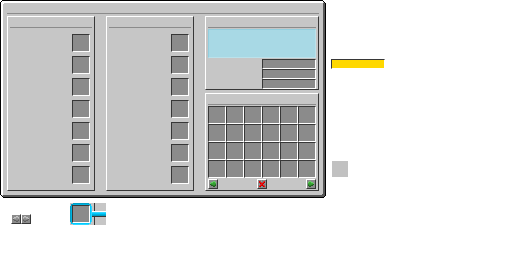
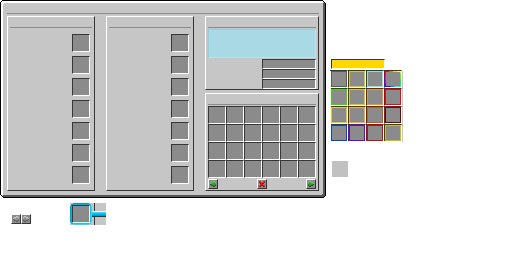
Reward boxes initial code + some new skins

Changed region(s): [[0.625, 0.25, 0.8125, 0.5625]]

diff --git a/src/main/java/com/flansmod/common/teams/RewardBox.java b/src/main/java/com/flansmod/common/teams/RewardBox.java
@@ -1,0 +1,56 @@
+package com.flansmod.common.teams;
+
+import java.util.ArrayList;
+
+import com.flansmod.common.FlansMod;
+import com.flansmod.common.guns.Paintjob;
+import com.flansmod.common.types.EnumPaintjobRarity;
+import com.flansmod.common.types.InfoType;
+import com.flansmod.common.types.PaintableType;
+import com.flansmod.common.types.TypeFile;
+
+public class RewardBox extends InfoType 
+{
+	// -------------------------------------------------------------------------------------------------------------------------------------
+	// To anyone planning to add to this file in future, remember that the Minecraft EULA forbids monetization of any non-cosmetic additions
+	// -------------------------------------------------------------------------------------------------------------------------------------
+	public ArrayList<Paintjob> paintjobs = new ArrayList<Paintjob>();
+	
+	public RewardBox(TypeFile file) 
+	{
+		super(file);
+	}
+
+	@Override
+	protected void read(String[] split, TypeFile file)
+	{
+		super.read(split, file);
+	
+		if (KeyMatches(split, "AddPaintjob"))
+		{
+			PaintableType type = PaintableType.GetPaintableType(split[2].hashCode());
+			if(type == null) 
+			{
+				FlansMod.Assert(false, "Invalid type: " + split[2] + " when reading " + shortName);
+				return;
+			}
+			Paintjob paintjob = type.getPaintjob(split[3]);
+			if(paintjob == null) 
+			{
+				FlansMod.Assert(false, "Invalid paintjob: " + split[3] + " when reading " + shortName);
+				return;
+			}
+			paintjob.rarity = GetRarity(split[1]);
+		}
+	}
+	
+	private EnumPaintjobRarity GetRarity(String split)
+	{
+		if(split.toLowerCase().equals("common")) return EnumPaintjobRarity.COMMON;
+		if(split.toLowerCase().equals("uncommon")) return EnumPaintjobRarity.UNCOMMON;
+		if(split.toLowerCase().equals("rare")) return EnumPaintjobRarity.RARE;
+		if(split.toLowerCase().equals("legendary")) return EnumPaintjobRarity.LEGENDARY;
+		FlansMod.Assert(false, "Unknown rarity entered for reward box");
+		return EnumPaintjobRarity.UNKNOWN;
+	}
+}

diff --git a/src/main/java/com/flansmod/common/types/EnumType.java b/src/main/java/com/flansmod/common/types/EnumType.java
@@ -37,6 +37,7 @@ import com.flansmod.common.teams.BlockArmourBox;
 import com.flansmod.common.teams.ItemTeamArmour;
 import com.flansmod.common.teams.LoadoutPool;
 import com.flansmod.common.teams.PlayerClass;
+import com.flansmod.common.teams.RewardBox;
 import com.flansmod.common.teams.Team;
 import com.flansmod.common.tools.ItemTool;
 import com.flansmod.common.tools.ToolType;
@@ -46,7 +47,7 @@ public enum EnumType
 	part("parts"), bullet("bullets"), attachment("attachments"), grenade("grenades"), gun("guns"), 
 	aa("aaguns"), vehicle("vehicles"), plane("planes"), mechaItem("mechaItems"), mecha("mechas"), 
 	tool("tools"), armour("armorFiles"), armourBox("armorBoxes"), box("boxes"), playerClass("classes"), 
-	team("teams"), itemHolder("itemHolders"), loadout("loadouts");
+	team("teams"), itemHolder("itemHolders"), rewardBox("rewardBoxes"), loadout("loadouts");
 	
 	public String folderName;
 	
@@ -86,6 +87,7 @@ public enum EnumType
 		case box :			return GunBoxType.class;
 		case part :			return PartType.class;
 		case itemHolder:	return ItemHolderType.class;
+		case rewardBox:		return RewardBox.class;
 		case loadout:		return LoadoutPool.class;
 		default : 		return InfoType.class;
 		}
@@ -110,6 +112,7 @@ public enum EnumType
 		if(o instanceof GunBoxType  		|| o instanceof BlockGunBox) 									return box;
 		if(o instanceof PartType  			|| o instanceof ItemPart) 										return part;
 		if(o instanceof ItemHolderType  	|| o instanceof TileEntityItemHolder) 							return itemHolder;
+		if(o instanceof RewardBox)																			return rewardBox;
 		if(o instanceof LoadoutPool)																		return loadout;
 		return null;
 	}

diff --git a/src/main/java/com/flansmod/client/gui/teams/GuiEditLoadout.java b/src/main/java/com/flansmod/client/gui/teams/GuiEditLoadout.java
@@ -22,6 +22,7 @@ import com.flansmod.common.teams.LoadoutPool.LoadoutEntry;
 import com.flansmod.common.teams.LoadoutPool.LoadoutEntryInfoType;
 import com.flansmod.common.teams.LoadoutPool.LoadoutEntryPaintjob;
 import com.flansmod.common.teams.PlayerRankData;
+import com.flansmod.common.types.EnumPaintjobRarity;
 import com.flansmod.common.types.IPaintableItem;
 import com.flansmod.common.types.InfoType;
 import com.flansmod.common.types.PaintableType;
@@ -269,10 +270,33 @@ public class GuiEditLoadout extends GuiTeamsBase
 					else if(entry instanceof LoadoutEntryPaintjob)
 					{
 						Paintjob paintjob = ((LoadoutEntryPaintjob)entry).paintjob;
+						if(paintjob.rarity != EnumPaintjobRarity.UNKNOWN)
+						{
+							mc.renderEngine.bindTexture(texture);
+							int x = 0, y = 71;
+							switch( paintjob.rarity )
+							{
+								case COMMON: x = 331; break;
+								case UNCOMMON: x = 349; break;
+								case RARE: x = 367; break;
+								case LEGENDARY:
+								{
+									x = 385;
+									break;
+								}
+								default: break;							
+							}
+							if(x > 0)
+							{
+								drawModalRectWithCustomSizedTexture(guiOriginX + 209 + col * 18, guiOriginY + 107 + row * 18, x, y, 16, 16, textureX, textureY);
+							}
+						}
+						
+						
 						drawSlotInventory(new ItemStack(paintjob.parent.getItem(), 1, paintjob.ID), guiOriginX + 209 + col * 18, guiOriginY + 107 + row * 18);
 					}
 										
-					if(!entry.available)
+					if(false)//!entry.available)
 					{
 						mc.renderEngine.bindTexture(texture);
 						GlStateManager.pushMatrix();

diff --git a/src/main/java/com/flansmod/common/types/PaintableType.java b/src/main/java/com/flansmod/common/types/PaintableType.java
@@ -1,6 +1,7 @@
 package com.flansmod.common.types;
 
 import java.util.ArrayList;
+import java.util.HashMap;
 
 import com.flansmod.client.FlansModResourceHandler;
 import com.flansmod.common.FlansMod;
@@ -21,11 +22,15 @@ public abstract class PaintableType extends InfoType
 	/** Assigns IDs to paintjobs */
 	private int nextPaintjobID = 1;
 	
+	private static HashMap<Integer, PaintableType> paintableTypes = new HashMap<Integer, PaintableType>();
+	public static PaintableType GetPaintableType(int iHash) { return paintableTypes.get(iHash); }
+	public static PaintableType GetPaintableType(String name) { return paintableTypes.get(name.hashCode()); }
+	
 	public PaintableType(TypeFile file)
 	{
 		super(file);
 	}
-
+	
 	@Override
 	public void postRead(TypeFile file)
 	{
@@ -43,6 +48,8 @@ public abstract class PaintableType extends InfoType
 		
 		// Add all custom paintjobs to dungeon loot. Equal chance for each
 		totalDungeonChance += dungeonChance * (paintjobs.size() - 1);
+		
+		paintableTypes.put(shortName.hashCode(), this);
 	}
 	
 	/** Pack reader */
@@ -77,9 +84,16 @@ public abstract class PaintableType extends InfoType
 	{
 		for(Paintjob paintjob : paintjobs)
 		{
-			if(paintjob.iconName.equals(s))
+			if(paintjob.textureName.equals(s))
 				return paintjob;
+			
+			if(paintjob.iconName.equals(s))
+			{
+				FlansMod.Assert(false, "Not sure this should be the right way to find a paintjob");
+				return paintjob;
+			}
 		}
+		FlansMod.Assert(false, "Could not find paintjob " + s);
 		return defaultPaintjob;
 	}
 	

diff --git a/src/main/java/com/flansmod/client/gui/GuiPaintjobTable.java b/src/main/java/com/flansmod/client/gui/GuiPaintjobTable.java
@@ -228,26 +228,30 @@ public class GuiPaintjobTable extends GuiContainer
 			{
 				GL11.glPushMatrix();
 				GL11.glColor4f(1F, 1F, 1F, 1F);
+				
+				//GlStateManager.loadIdentity();
 
+				// Setup lighting
 		        GlStateManager.disableLighting();
 		        GlStateManager.pushMatrix();
-		        
 		        GlStateManager.rotate(180F, 1.0F, 0.0F, 0.0F);
 		        RenderHelper.enableStandardItemLighting();
 		        GlStateManager.popMatrix();
 		        GlStateManager.enableRescaleNormal();
 		        
+		        //GL11.glTranslatef(10f, 10f, -10f);
+		        //GL11.glScalef(100f, 100f, 100f);
 				GL11.glTranslatef(renderOrigin.x, renderOrigin.y, renderOrigin.z);
 
-				GL11.glRotatef(160, 1F, 0F, 0F);
-				GL11.glRotatef(20, 0F, 1F, 0F);
+				GL11.glRotatef(180, 1F, 0F, 0F);
+				//GL11.glRotatef(20, 0F, 1F, 0F);
 				float scale = paintableType.GetRecommendedScale();
 				GL11.glScalef(-scale, scale, scale);
 				
 				float dYaw = (modelAxes.getYaw() - prevModelAxes.getYaw());
 				while(dYaw > 180.0f) dYaw -= 360.0f;
 				while(dYaw < -180.0f) dYaw += 360.0f;
-		        GlStateManager.rotate(prevModelAxes.getYaw() + dYaw * RenderGun.smoothing, 0.0F, 1.0F, 0.0F);
+		        //GlStateManager.rotate(prevModelAxes.getYaw() + dYaw * RenderGun.smoothing, 0.0F, 1.0F, 0.0F);
 		        
 		        Paintjob paintjob = paintableType.paintjobs.get(tempStack.getItemDamage());
 

diff --git a/src/main/java/com/flansmod/common/guns/Paintjob.java b/src/main/java/com/flansmod/common/guns/Paintjob.java
@@ -1,5 +1,6 @@
 package com.flansmod.common.guns;
 
+import com.flansmod.common.types.EnumPaintjobRarity;
 import com.flansmod.common.types.PaintableType;
 
 import net.minecraft.item.ItemStack;
@@ -11,6 +12,7 @@ public class Paintjob
 	public String textureName;
 	public ItemStack[] dyesNeeded;
 	public int ID;
+	public EnumPaintjobRarity rarity;
 	
 	public Paintjob(PaintableType parent, int id, String iconName, String textureName, ItemStack[] dyesNeeded)
 	{
@@ -19,5 +21,6 @@ public class Paintjob
 		this.iconName = iconName;
 		this.textureName = textureName;
 		this.dyesNeeded = dyesNeeded;
+		this.rarity = EnumPaintjobRarity.UNKNOWN;
 	}
 }

diff --git a/src/main/java/com/flansmod/common/FlansMod.java b/src/main/java/com/flansmod/common/FlansMod.java
@@ -558,6 +558,7 @@ public class FlansMod
 					case playerClass : 	break;
 					case team : 		break;
 					case itemHolder:	new BlockItemHolder((ItemHolderType)infoType); break;
+					case rewardBox:		break;
 					case loadout:		break;
 					default : log("Unrecognised type for " + infoType.shortName); break;
 					}

diff --git a/src/main/java/com/flansmod/common/types/EnumPaintjobRarity.java b/src/main/java/com/flansmod/common/types/EnumPaintjobRarity.java
@@ -1,0 +1,10 @@
+package com.flansmod.common.types;
+
+public enum EnumPaintjobRarity 
+{
+	UNKNOWN,
+	COMMON,
+	UNCOMMON,
+	RARE,
+	LEGENDARY,
+}
